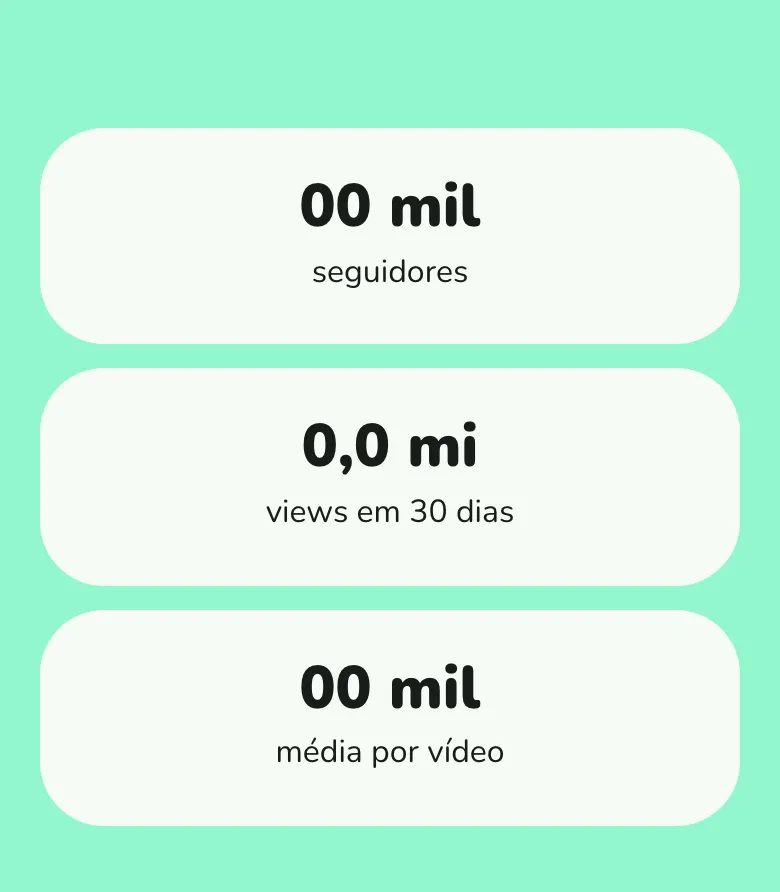
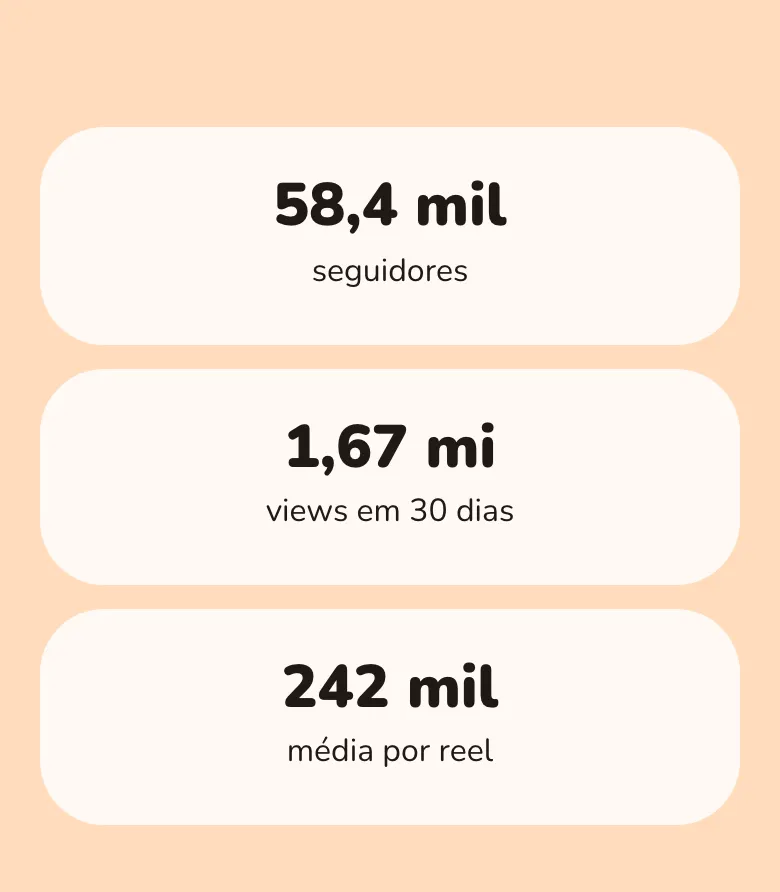
DEV-097: imagens da página de vendas com o portfólio real da Carol feito no editor (vitrine, topo e prévia de link); seed:carol cria o perfil se faltar

diff --git a/site/src/data/portfolio-creator.ts b/site/src/data/portfolio-creator.ts
@@ -64,15 +64,15 @@ export const BENEFITS = [
   { title: 'Quem assiste você', text: 'Gênero, idade e cidades do seu público em gráficos fáceis de ler.' },
 ];
 
-// vitrine de seções: imagens tiradas do editor de verdade por scripts/portfolio-creator-secoes.mjs
+// vitrine de seções: o portfólio real da Carol no editor, fotografado por scripts/portfolio-creator-secoes.mjs
 // (public/media/pc/secao-<file>.webp); os layouts são os nomes das variações em src/blocks/registro.ts
 export const SECOES = [
   { name: 'Capa', layouts: 'foto grande, foto redonda ou foto e vídeo de fundo', file: 'capa' },
   { name: 'Vídeos', layouts: 'carrossel, grade ou um grande e os outros pequenos', file: 'videos' },
   { name: 'Números', layouts: 'cards ou barras comparando', file: 'numeros' },
-  { name: 'Por que eu', layouts: 'lista ou cards', file: 'motivos' },
+  { name: 'Público', layouts: 'idade ou cidades', file: 'publico' },
+  { name: 'Marcas', layouts: 'logos ou nomes em lista', file: 'marcas' },
   { name: 'Formatos e pacotes', layouts: 'cards ou tabela', file: 'formatos' },
-  { name: 'Como eu trabalho', layouts: 'passos em cartões ou linha', file: 'processo' },
 ];
 
 export const TRIAL = [

diff --git a/docs/PROGRESSO.md b/docs/PROGRESSO.md
@@ -17,7 +17,7 @@ Diário do projeto e memória entre sessões. Toda IA que trabalhar aqui lê a s
 - **Em andamento (27/out): correções da revisão de UX do editor**, uma tarefa por vez, cada uma com aprovação e commit:
   - (0) commit do trabalho pendente (feito).
   - (1) **DEV-096, sem modelos** (aprovada, commit `787a989`). Decisão do usuário: acabam os modelos para escolher; o editor e as seções montam tudo. A etapa do assistente vira "Escolha suas cores" e os docs são atualizados. `modelo` fica só como valor interno `'nuvem'`, sem migração.
-  - (1b) **DEV-097:** proposta aprovada e aplicada em localhost. Esperando aprovação do resultado e a decisão sobre as imagens da vitrine.
+  - (1b) **DEV-097:** feita. Textos no commit `00e6357`; as imagens com o portfólio real da Carol, aprovadas ("ajusta tudo"), no commit seguinte.
   - (2) DEV-082: não perder edição quando salvar na conta falha (achado confirmado: recarregar online apagava a edição feita sem conexão).
   - (3) DEV-232: foco e teclado no editor (anel de foco dos blocos a ~1,2:1, foco entrando na gaveta, atalhos, Delete esconde a seção).
   - (4) DEV-093: topo em 320 px, abas no desktop e dica de primeiro uso.
@@ -37,12 +37,19 @@ Diário do projeto e memória entre sessões. Toda IA que trabalhar aqui lê a s
   - **Correções que você pediu junto:**
     - Saiu a promessa de "IA que lê os prints": ela digita os números (passo 2, plano, benefício e 2 perguntas).
     - Saiu o "até 10 vídeos": o editor não limita; o vídeo vai até 100 MB.
-  - **Vitrine:** "11 seções, *do seu jeito*", com 6 cartões (Capa, Vídeos, Números, Por que eu, Formatos e pacotes, Como eu trabalho) e os layouts de cada uma na legenda. São 3 colunas no desktop e 2 no celular.
-  - **Imagens:**
-    - As 6 da vitrine e as 2 do topo (exemplo claro e escuro) são tiradas do modo Ver do editor de verdade por `scripts/portfolio-creator-secoes.mjs` (780×892, 176 KB as 8).
-    - As 15 `modelo-*.webp` foram apagadas e o `portfolio-creator-shots.mjs` não gera mais modelos.
-    - A prévia de link (`og-portfolio-creator.jpg`) diz "Seções prontas" no lugar de "15 modelos".
-  - **Ponto fraco (crítica do impeccable):** as imagens mostram o conteúdo de exemplo vazio ("Sua foto", "[seu nome]", "00 mil") e cada cartão tem uma cor. Parecem rascunho perto do celular "Bia" do protótipo. **Decisão sua:** manter, refazer com um portfólio de exemplo preenchido (nome e textos genéricos, sem números) ou com o portfólio real da Carol (exige rodar o `seed:carol`, que grava na conta de teste).
+  - **Vitrine:** "11 seções, *do seu jeito*", com 6 cartões (Capa, Vídeos, Números, Público, Marcas, Formatos e pacotes) e os layouts de cada uma na legenda. O texto ao lado diz "As de baixo são do meu portfólio, montado aqui." São 3 colunas no desktop e 2 no celular.
+  - **Imagens (o portfólio real da Carol, numa cor só, com um cartão escuro; decisão sua):**
+    - Origem: tudo sai do modo Ver do editor de verdade, com o projeto da conta de teste. Esse projeto é preenchido pelo `seed:carol` só com dados do site dela (foto `p9.webp`, vídeos, 58,4 mil seguidores, público e marcas), na cor caramelo dela.
+    - Roteiro: `scripts/portfolio-creator-secoes.mjs`. Só lê o banco, põe o projeto no rascunho do navegador e gera:
+      - as 6 imagens da vitrine;
+      - o celular grande do topo (`portfolio-carol.webp`, com a capa);
+      - as 2 imagens pequenas (vídeos na página clara, números na escura);
+      - a prévia de link `og-portfolio-creator.jpg`, que diz "Seções prontas" e mostra o celular da Carol.
+    - A seção do modo iniciante continua com o celular "Bia" do protótipo (`portfolio-iniciante.webp`), porque ali o assunto é quem ainda não tem números.
+    - As 15 `modelo-*.webp` foram apagadas, e o `portfolio-creator-shots.mjs` agora só gera o celular do modo iniciante e as fotos da Carol.
+    - O `seed:carol` agora cria o perfil se ele faltar. A conta de teste tinha ficado sem perfil, e o seed falhava.
+    - Apaguei 1 foto que sobrou no Cloudinary da primeira tentativa.
+    - **Pendente:** 3 fotos antigas sem registro no banco (24 e 25/out, pasta `creators/71134f88…`), provável sobra de testes de exclusão de conta. Você pediu para apagar, mas o controle de permissões do Claude Code bloqueou a exclusão no Cloudinary. Dá para apagar no painel do Cloudinary ou liberar a permissão. O roteiro está em `/tmp/rev/orfa.mjs` (`node orfa.mjs apagar <id>`).
   - **Achados que já existiam antes desta mudança (não mexi):** texto escuro sobre o rosa `#e5386a` a 4,3:1 (abaixo de 4,5:1) em 3 ou 4 pontos e 3 cores fora do DESIGN.md na linha 177.
   - O site só muda em produção no merge na `main`.
 
